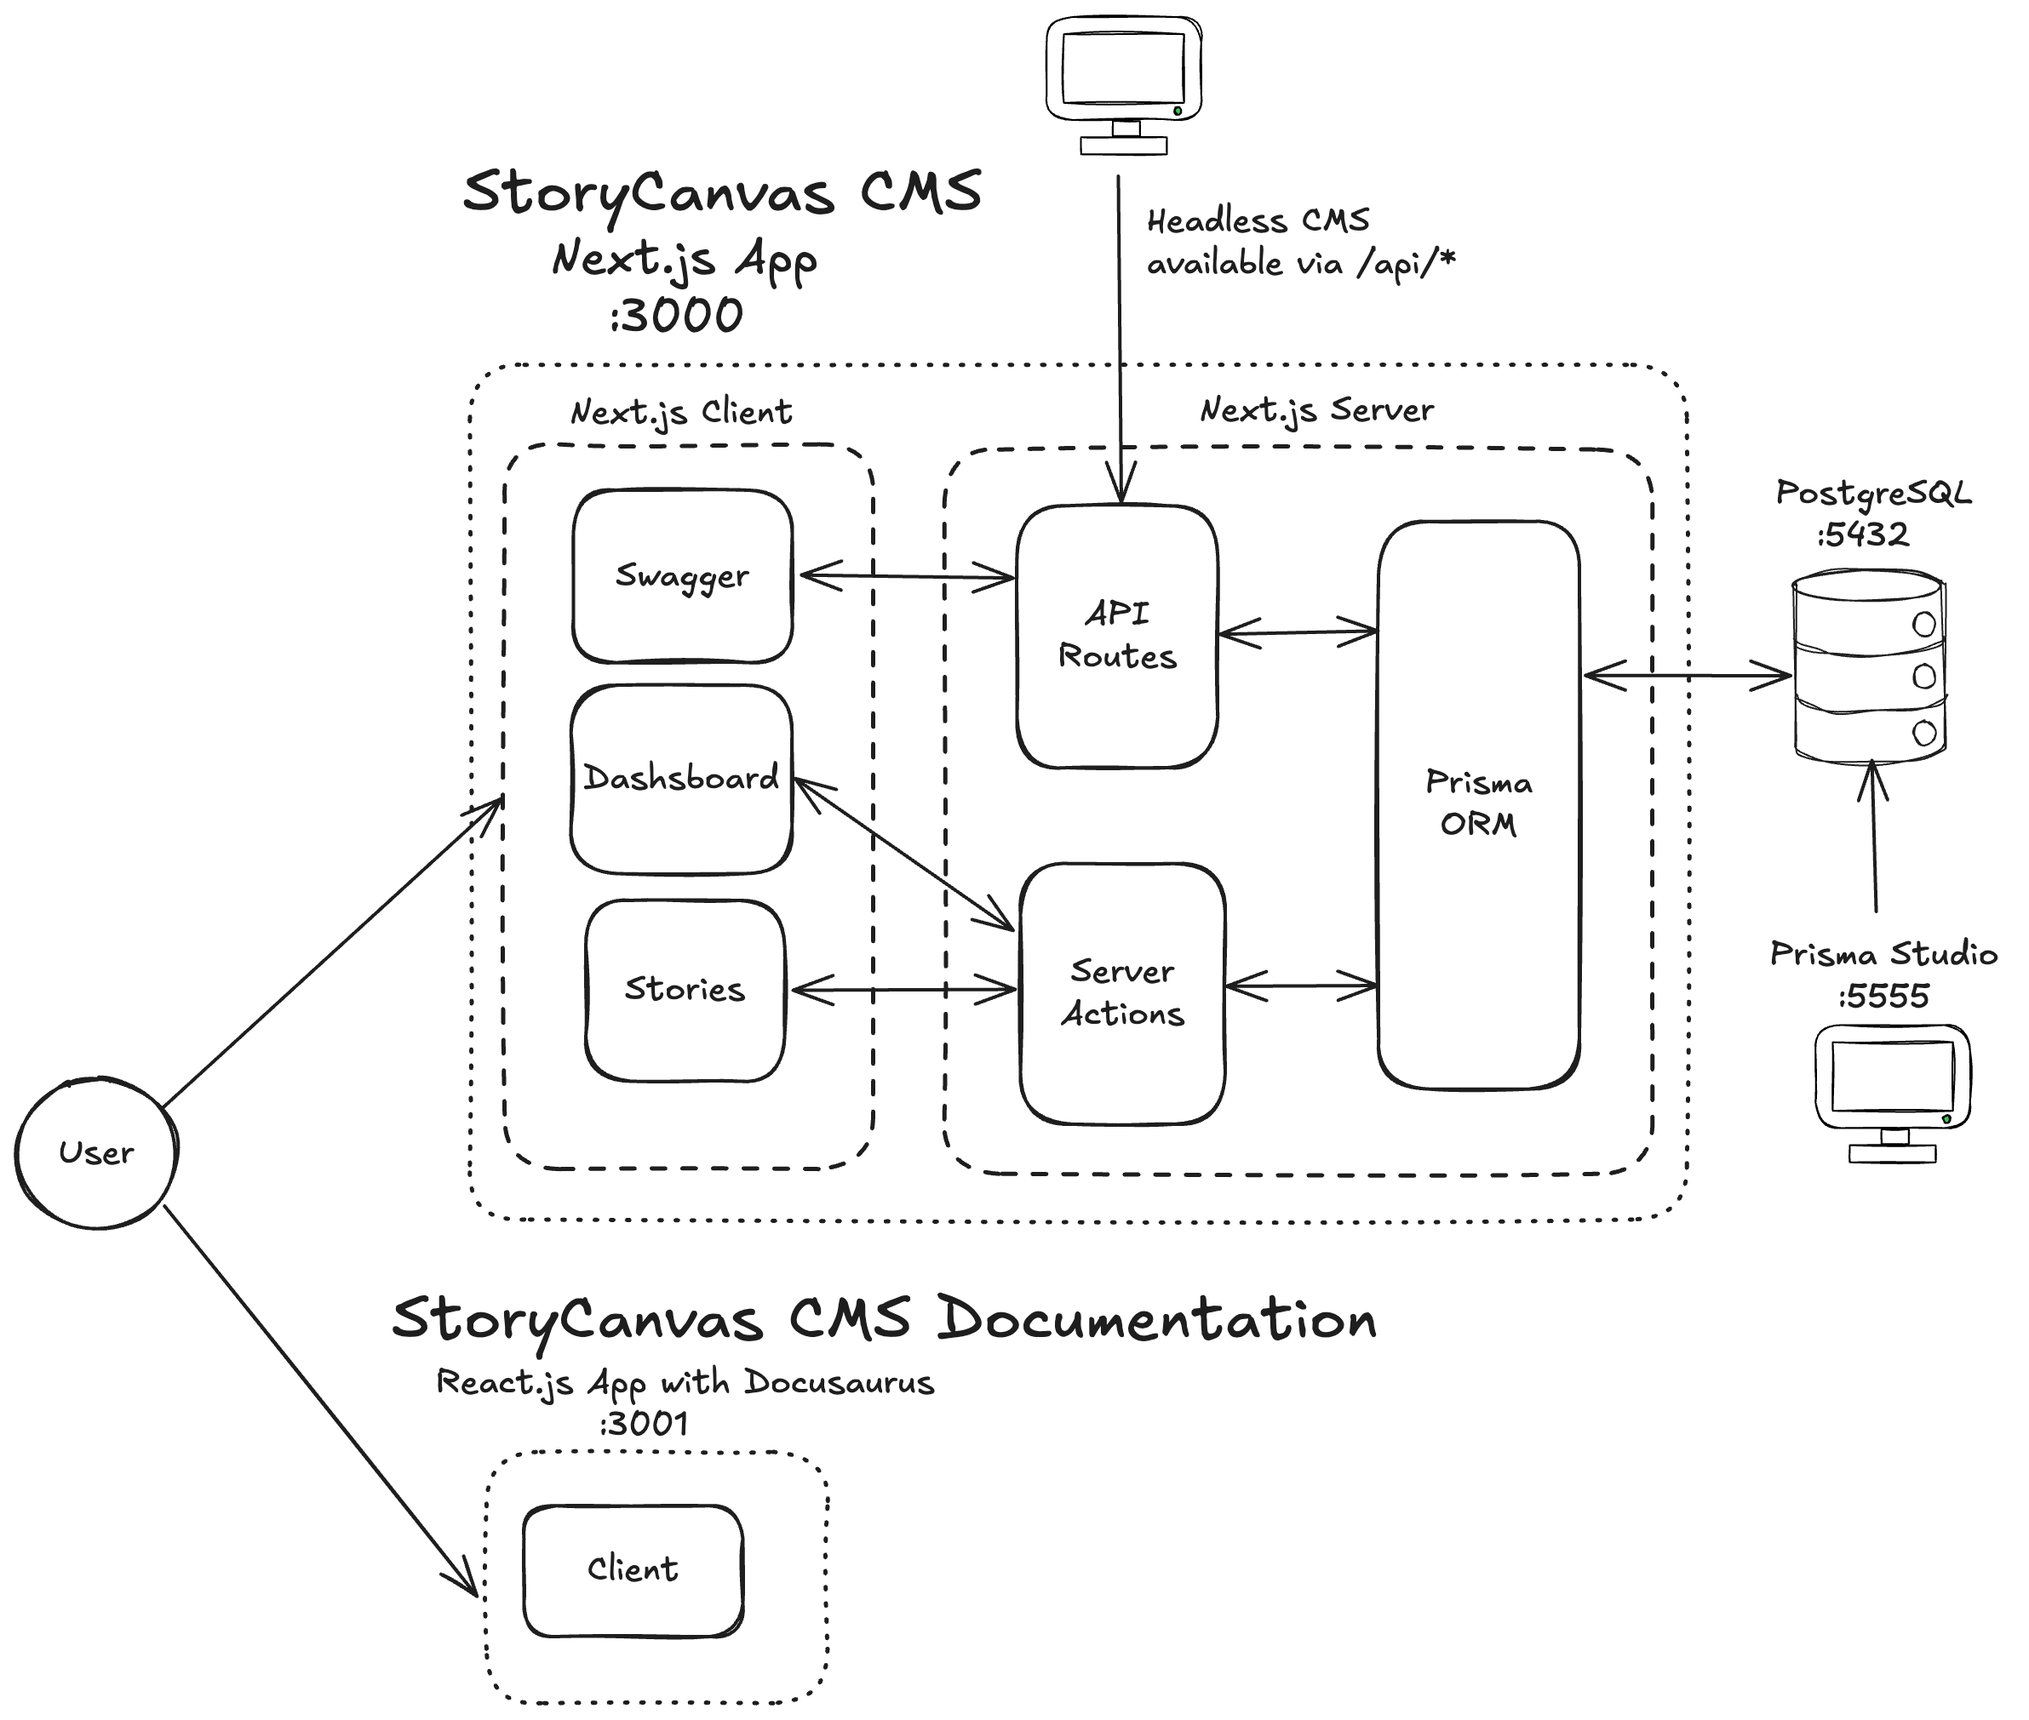
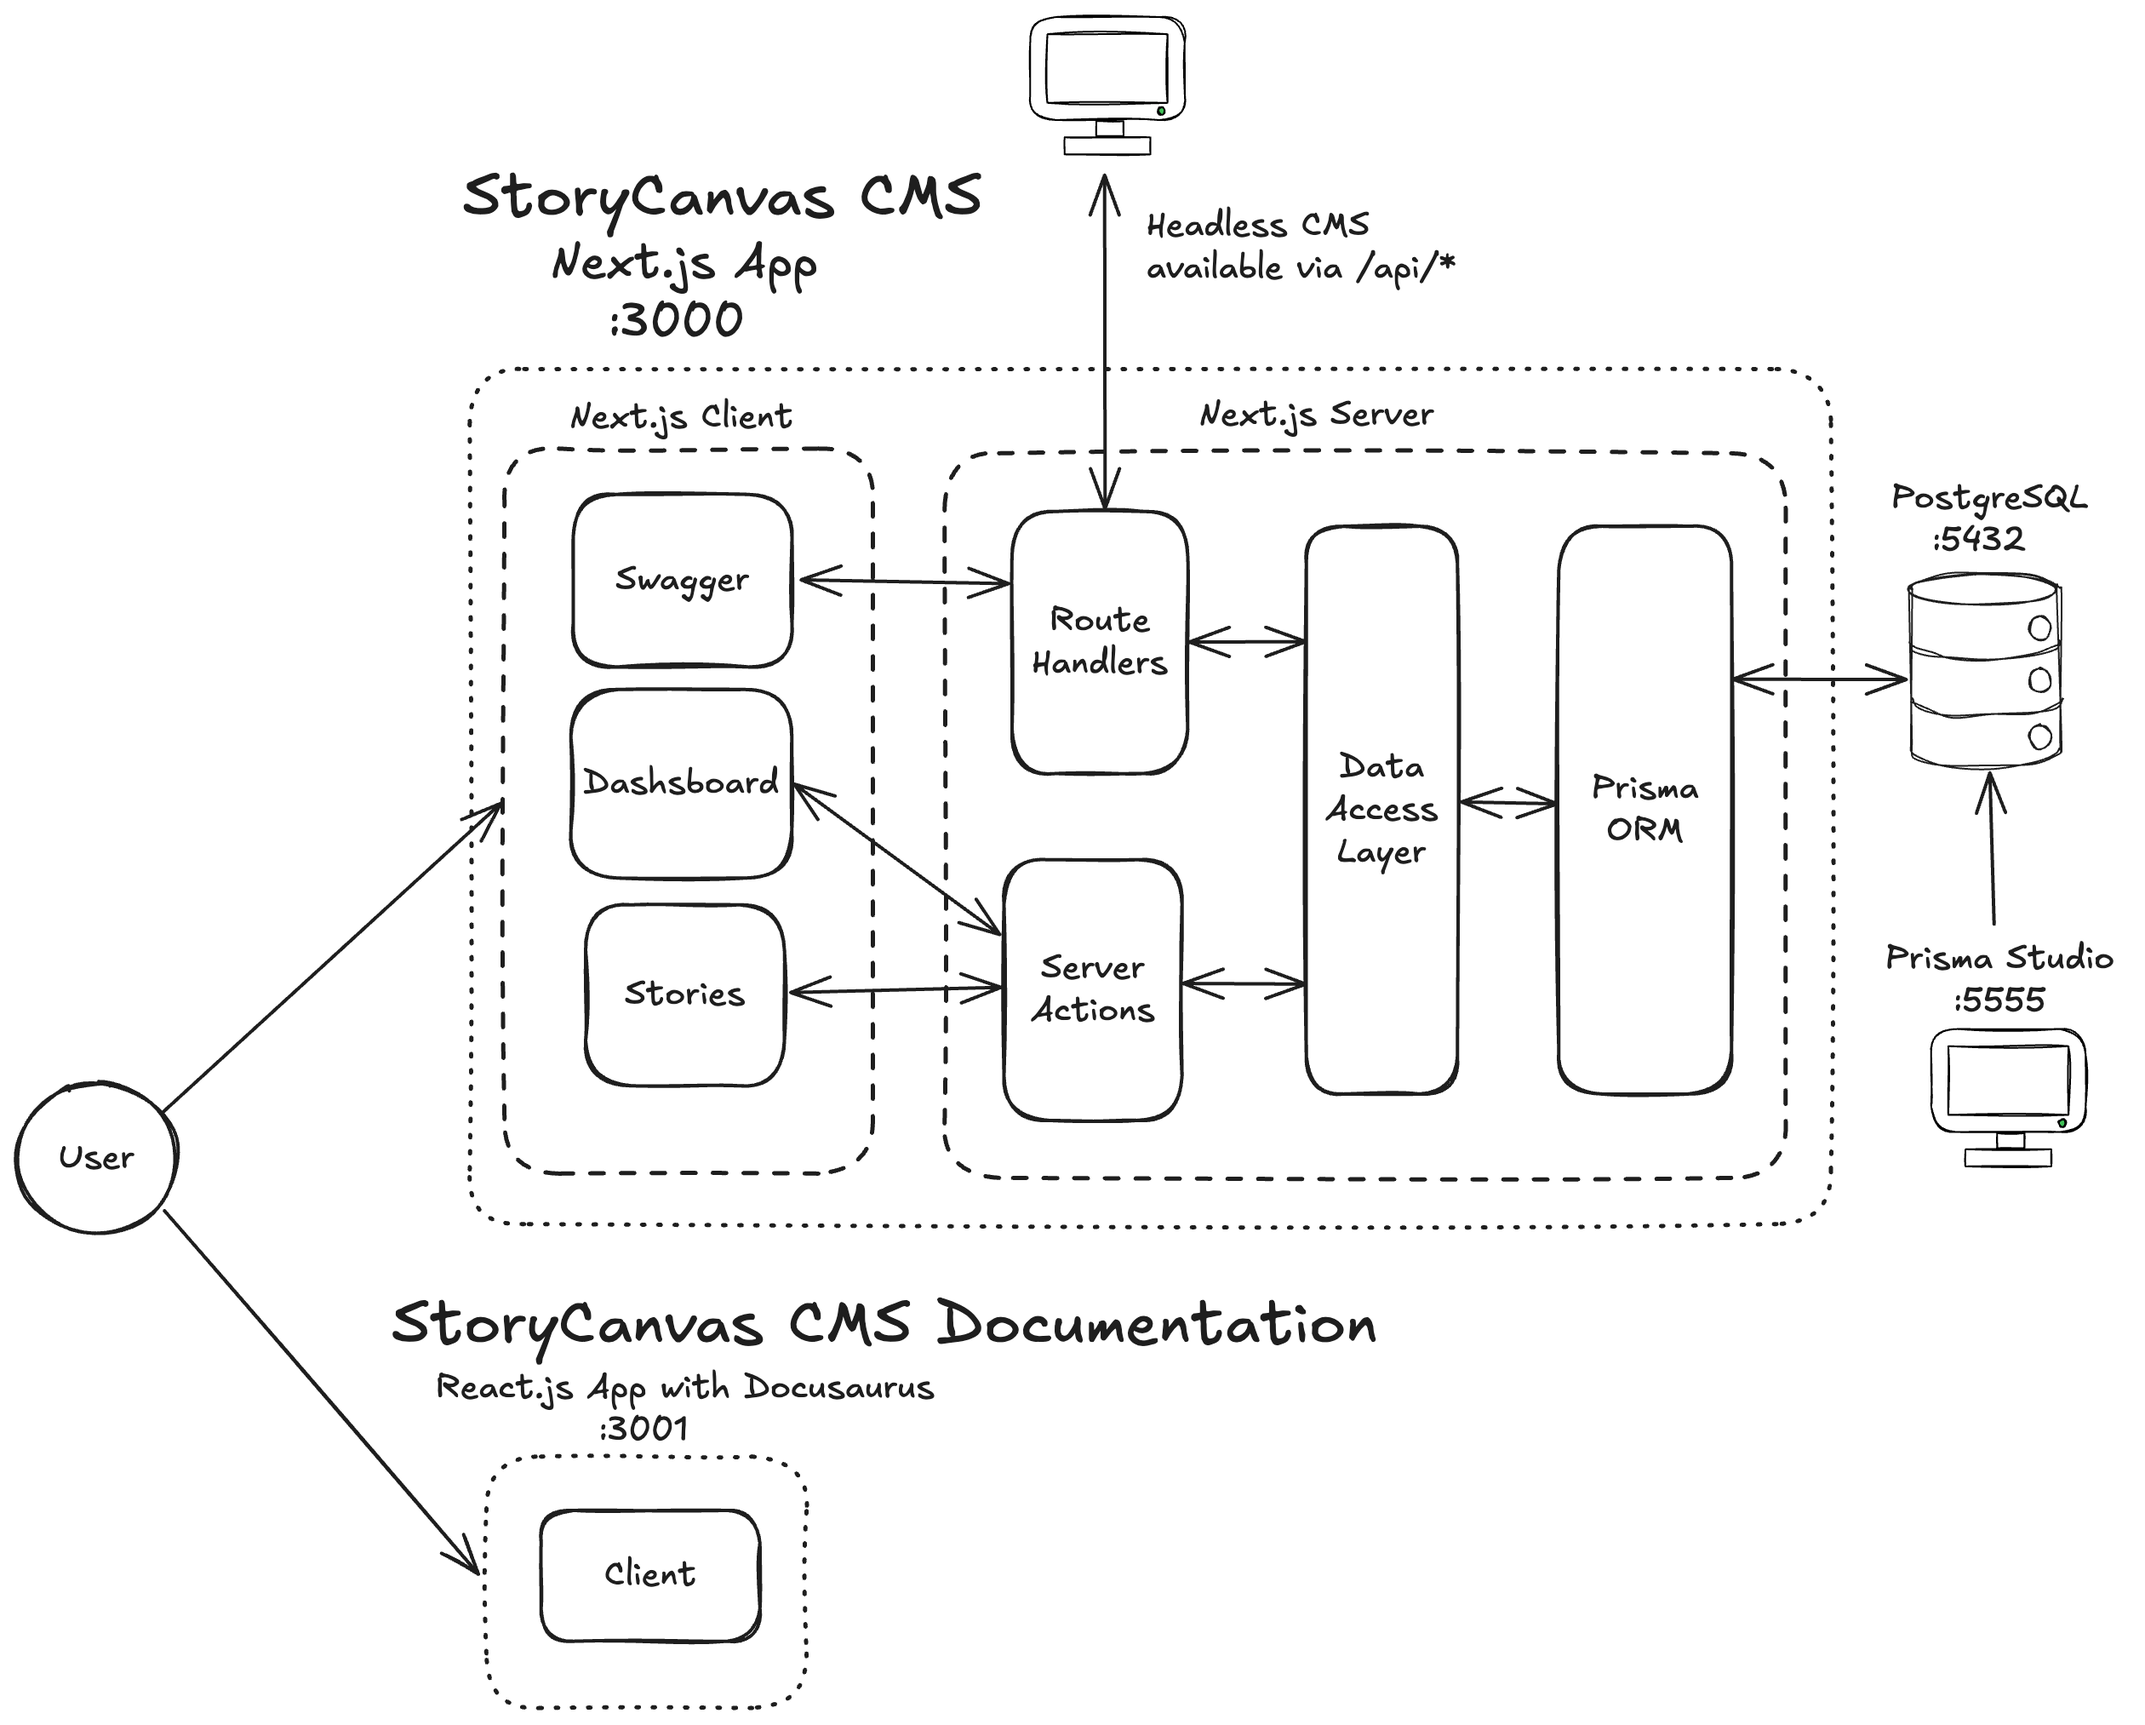
fix(docs): update terminology from "API Routes" to "Route Handlers" in README

diff --git a/README.md b/README.md
@@ -30,7 +30,7 @@
 
 StoryCanvas is built on Next.js with a clear separation between the headless API and the admin dashboard:
 
-- **API Routes** (/api/**) are used for the headless CMS interface, making data accessible to external clients. These endpoints are documented with Swagger and some of them require a session or token for authentication.
+- **Route Handlers** (/api/**) are used for the headless CMS interface, making data accessible to external clients. These endpoints are documented with Swagger and some of them require a session or token for authentication.
 
 - **Server Actions** are used internally within the admin dashboard to mutate data securely. Although are technically public HTTP endpoints, they are not directly accessible without a valid invocation context (e.g., form submission from the dashboard), thanks built-in protections:
 
